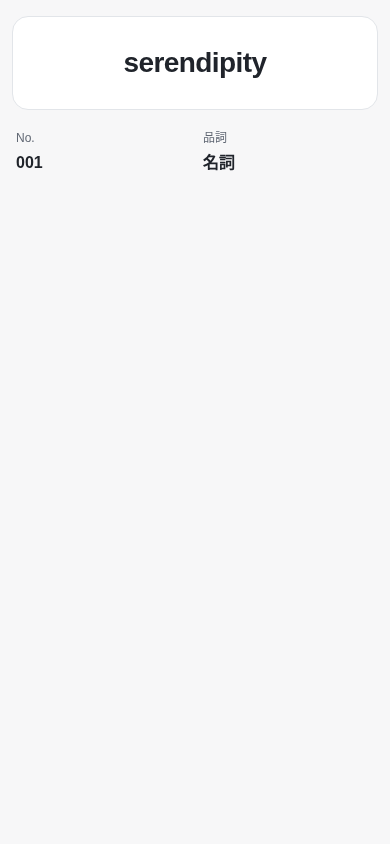
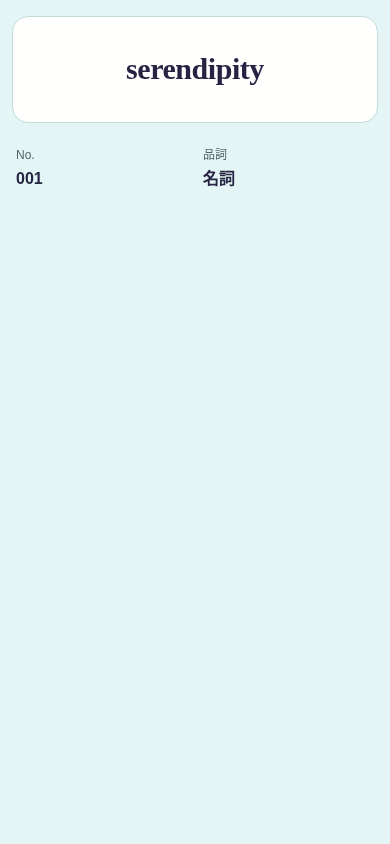
Refine Anki card styling with Happy Hues colors

Changed region(s): [[0.3077, 0.0616, 0.6769, 0.1232], [0.5231, 0.154, 0.6154, 0.2464], [0.0308, 0.154, 0.1231, 0.2156]]

diff --git a/DESIGN.md b/DESIGN.md
@@ -4,11 +4,33 @@
 
 ## 見た目と情報の順序
 
-- 白〜グレーの単色背景と、1つの問題・答えの枠を使います。グラデーション、ぼかし、影、テーマボタン、装飾用の色帯は使いません。
+- 淡いミントの背景に白い問題・答えの枠を置き、紺の文字で読みやすくまとめます。黄色は「答え」のラベルと文字の選択に使います。
+- 問題はセリフ体、答え・補足情報はサンセリフ体にして、見出しと本文を区別します。システムにあるフォントを使い、外部フォントを読み込みません。
+- 1つの問題・答えの枠と控えめな区切り線で整理します。グラデーション、ぼかし、影、テーマボタン、装飾用の色帯は使いません。
 - 順序は「問題 → 答え → 単語情報 → 例文」です。答えは裏面でだけ追加し、同じ枠に区切り線と「答え」のラベルを付けます。
 - 単語情報と例文を別のカードで囲わず、余白と薄い区切り線で整理します。
 - 中央の問題、短い答え、長い答えの左揃えを使い分けます。例文のラベルは日本語で「例文」とします。
 - ライト／ダークの自動切替は保ちます。文字は十分なコントラストを確保します。
+
+## Happy Huesを参考にした配色
+
+[Happy Hues](https://www.happyhues.co/)由来の公開データにある「White Waters」をライト表示、「Midnight Evening」をダーク表示の参考にしています。
+
+| 用途 | ライト | ダーク |
+| --- | --- | --- |
+| 画面の背景 | `#e3f6f5` | `#1b2038` |
+| 問題・答えの枠 | `#fffffe` | `#232946` |
+| 問題・本文 | `#272343` | `#fffffe` |
+| 補足の文字 | `#50636b` | `#b8c1ec` |
+| 短い答え | `#272343` | `#bae8e8` |
+| 答えラベル・選択の背景 | `#ffd803` | `#ffd803` |
+| 答えラベル・選択の文字 | `#272343` | `#272343` |
+| リンク | `#245c60` | `#bae8e8` |
+| 区切り線 | `#c1dcda` | `#485475` |
+
+黄色のラベルは答えの領域を見つけるための表示です。長い答えには本文色を使い、本文・補足・リンク・ラベルはそれぞれ背景とのコントラストを4.5:1以上にしています。
+
+参照したのは[公開パレットデータの固定版](https://github.com/meodai/happyHuesColors/blob/32eb0d8078c83475721745358d5b06495fc137b0/dist/palettes.json)です。本家サイトは作業環境のネットワーク制限で直接閲覧できなかったため、このデータで色を確認しました。パレット名はこの公開データでの名称です。ライトの本文・補足・リンク・区切り線とダークの背景・区切り線は、読みやすさに合わせて調整した色です。
 
 ## 表面から裏面への伸縮
 

diff --git a/README.md b/README.md
@@ -1,6 +1,6 @@
 # Ankiカードデザイン
 
-色切替をなくした、シンプルなAnkiテンプレートです。問題と答えを同じ枠に表示し、**表面から裏面へ切り替えると、答えの分だけ枠が下へ広がります。**
+Happy Huesの配色を参考に、Impeccableで整えたAnkiテンプレートです。淡いミントの背景、紺の文字、黄色の「答え」ラベルで、問題と答えを見分けやすくしています。**表面から裏面へ切り替えると、答えの分だけ同じ枠が下へ広がります。**
 
 ## Ankiへの反映
 
@@ -26,7 +26,8 @@ GitHubで次の3ファイルを開き、内容全体をコピーしてAnkiの「
 
 ## 表示の動作
 
-- 色切替のボタン・保存処理・テーマ用CSSを削除しました。白〜グレーの背景と控えめな区切り線で整理しています。
+- 色切替のボタン・保存処理はありません。ミント・白・紺を基調に、黄色を答えの目印として使います。
+- 問題はセリフ体、答えと補足情報はサンセリフ体にして、余白と控えめな区切り線で整理しています。
 - 問題と答えの枠に最低高さ・高さの上限を設けません。短い答えでも枠が伸び、長い答えや画像が入るとさらに広がります。
 - 答えは問題の下に、区切り線と「答え」のラベルを付けて表示します。空の答えでは線・ラベル・余白を出しません。
 - 40文字を超える答えや箇条書き・表は、左揃えと広めの行間で表示します。高さに合わせて文字を際限なく縮めません。
@@ -44,3 +45,5 @@ GitHubで次の3ファイルを開き、内容全体をコピーしてAnkiの「
 Anki本体・AnkiMobile・AnkiDroidでの実機確認は未実施です。貼り替え後は利用中のAnkiのプレビューでも確認してください。
 
 GitHubでは各ファイルの鉛筆アイコンから編集できます。[デザイン方針](DESIGN.md) と、導入済みの [UI/UX Pro Max](.agents/skills/ui-ux-pro-max/SKILL.md) / [Impeccable](.agents/skills/impeccable/SKILL.md) もリポジトリにあります。
+
+配色は[Happy Hues](https://www.happyhues.co/)由来の[公開パレットデータ](https://github.com/meodai/happyHuesColors/blob/32eb0d8078c83475721745358d5b06495fc137b0/dist/palettes.json)を参考にしています。本家サイトは作業環境から直接閲覧できなかったため、このデータで色を確認しました。採用色と調整した色は[デザイン方針](DESIGN.md)に記載しています。

diff --git a/docs/validation.md b/docs/validation.md
@@ -8,11 +8,11 @@
 
 | 画面幅 | 問題だけ | 短い答えを表示 | 長い答えを表示 |
 | --- | ---: | ---: | ---: |
-| 320px | 約102px | 約207px | 約1308px |
-| 390px | 約102px | 約207px | 約1094px |
-| 480px | 約102px | 約207px | 約911px |
-| 768px | 約123px | 約232px | 約980px |
-| 1024px | 約123px | 約232px | 約980px |
+| 320px | 約115px | 約240px | 約1402px |
+| 390px | 約115px | 約240px | 約1157px |
+| 480px | 約115px | 約240px | 約943px |
+| 768px | 約144px | 約272px | 約1055px |
+| 1024px | 約144px | 約272px | 約1055px |
 
 短い答えは「りんご」、長い答えは段落2つと箇条書きのサンプルです。すべての幅で、答えが問題の枠の内側に収まり、単語情報と例文がその下へ移動することを確認しました。メイン枠のmin-heightは0px、max-heightはnoneです。
 
@@ -34,7 +34,21 @@ JavaScriptエラーは発生していません。
 
 ## デザインの検査
 
-Impeccableでテンプレート3ファイルと展開済みHTMLを1回検査し、指摘はありませんでした。ライト／ダークの本文・補助文字・短い答えの計8組も計算し、いずれも4.5:1以上のコントラストを確保しています。
+Impeccableのcolorizeとpolishの方針に沿って配色・文字・余白を整えました。スマートフォン・デスクトップの表面／裏面とダーク表示を目視で確認し、テンプレート3ファイルと展開済みHTMLを検査ツールで1回検査しています。検査結果は指摘なしでした。
+
+ライト／ダークの本文・補助文字・リンク・短い答え・黄色ラベルの計13組を、WCAGの相対輝度の式で計算しました。最小でも5.62:1で、いずれも通常の文字に必要な4.5:1以上です。代表値は以下のとおりです。
+
+| 文字と背景 | コントラスト |
+| --- | ---: |
+| ライト：紺の本文／白い枠 | 14.91:1 |
+| ライト：補足の文字／ミントの背景 | 5.62:1 |
+| ライト：リンク／白い枠 | 7.56:1 |
+| 紺のラベル文字／黄色の背景 | 10.71:1 |
+| ダーク：白い本文／紺の枠 | 14.21:1 |
+| ダーク：補足の文字／紺の枠 | 8.04:1 |
+| ダーク：短い答え・リンク／紺の枠 | 10.69:1 |
+
+配色の参照元と採用色は[デザイン方針](../DESIGN.md)に記載しています。Happy Huesの本家サイトは直接閲覧できなかったため、Happy Hues由来の公開パレットデータを確認しました。
 
 ## 確認範囲
 
